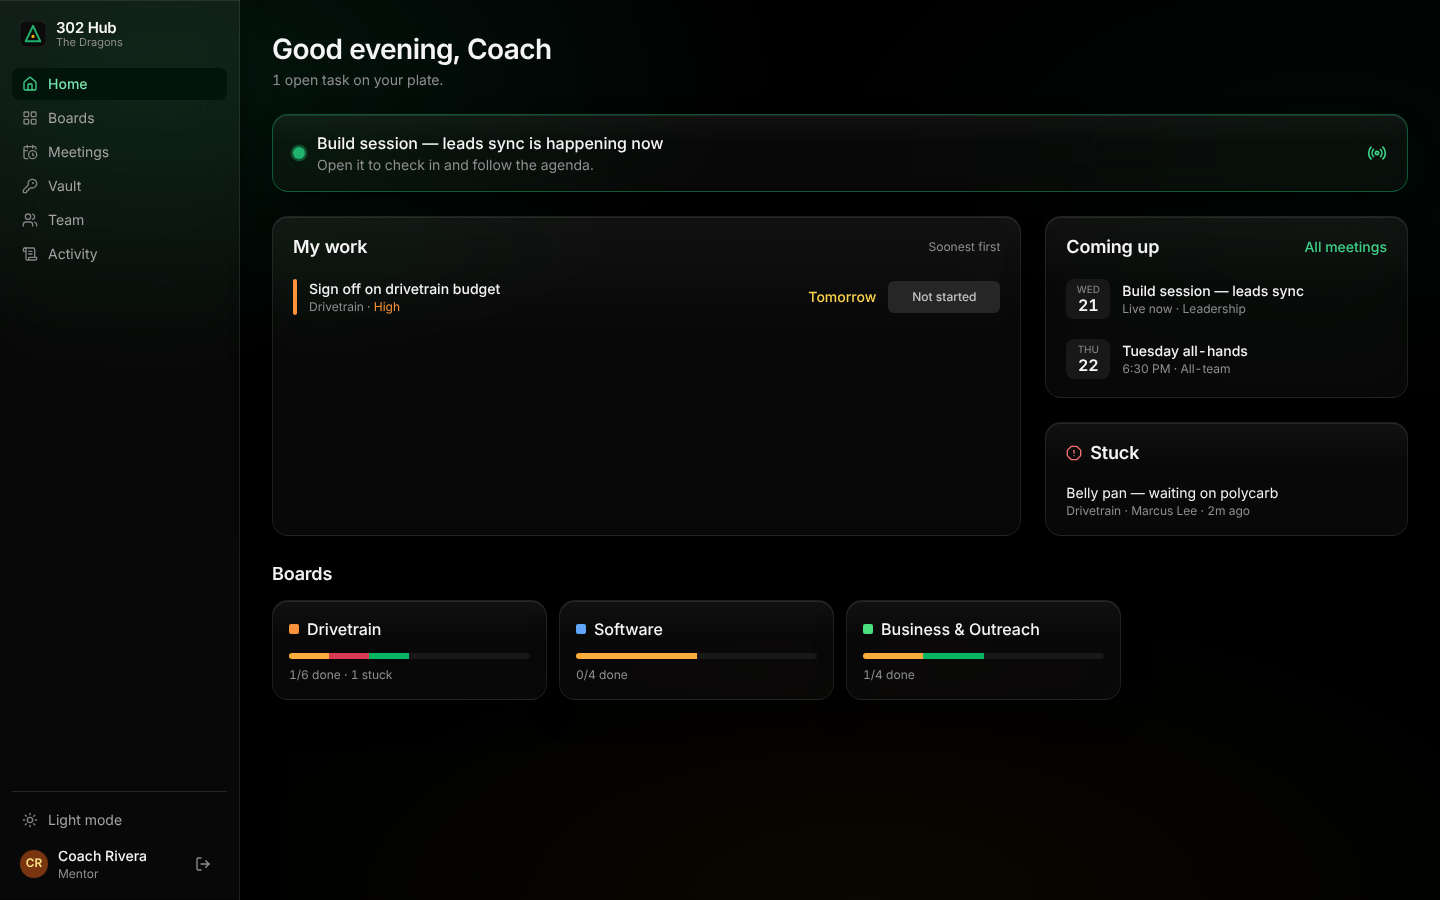
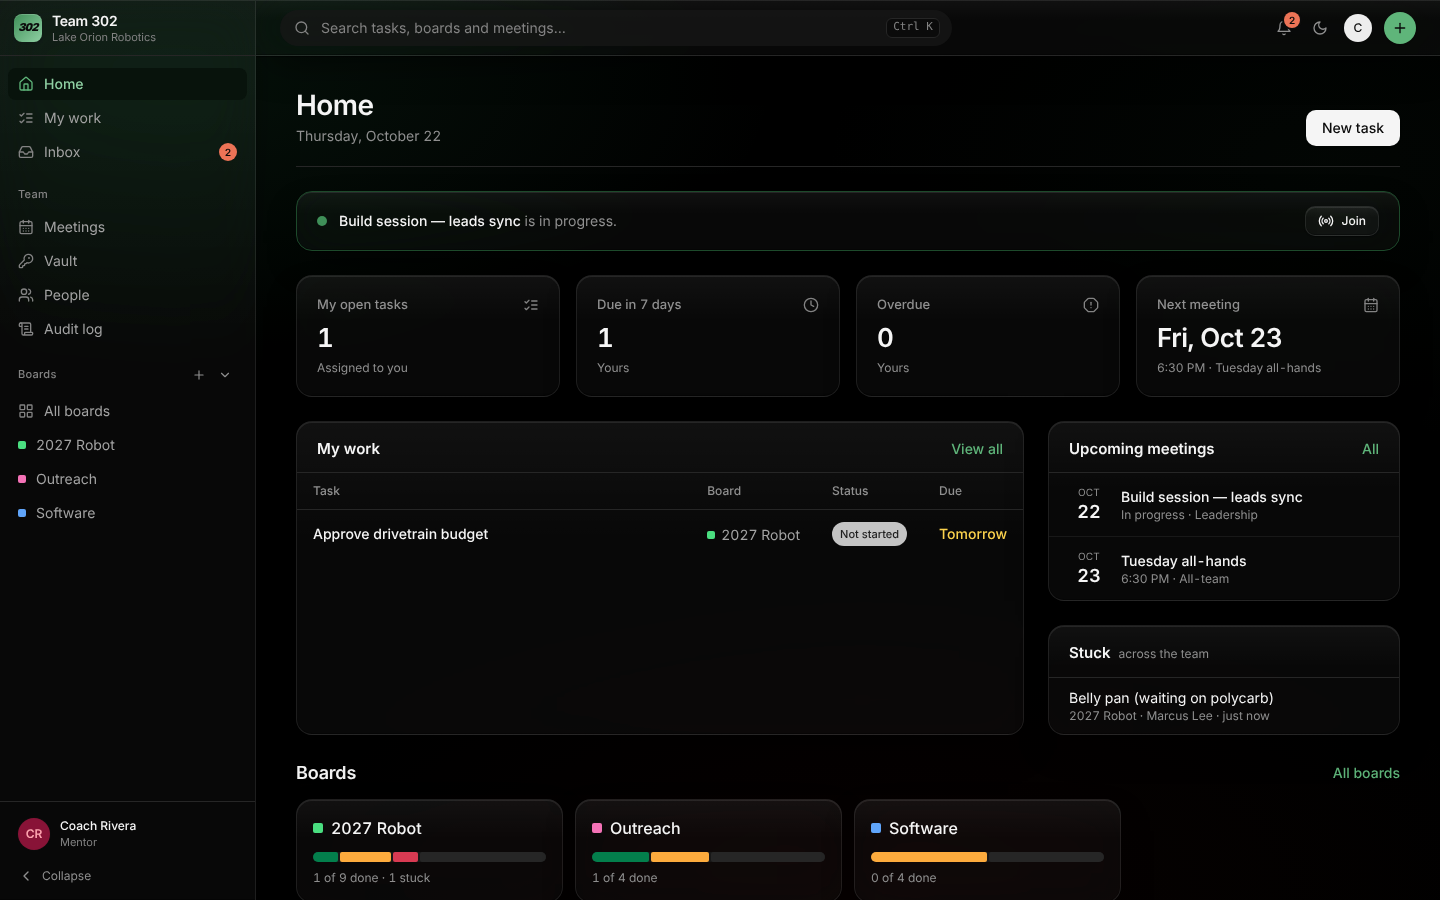
Fix phone board layout and see-through task panel; update README and screenshots
Claude-Session: https://claude.ai/code/session_015WHUanuDyrXfSc4cvqgGRL

diff --git a/frontend/src/components/board/BoardTable.jsx b/frontend/src/components/board/BoardTable.jsx
@@ -9,7 +9,8 @@ import { AddColumnButton, ColumnHeader, SummaryCell } from './columns'
 import { BORDER, COLORS, SWATCH, TEXT } from '../../lib/constants'
 
 const CHECK_W = 44
-const TITLE_W = 340
+// Narrower pinned task column on phones, so the other columns are reachable.
+const titleWidth = () => (typeof window !== 'undefined' && window.innerWidth < 640 ? 190 : 340)
 const ADD_W = 44
 
 function Checkbox({ checked, indeterminate, onChange, label }) {
@@ -51,7 +52,7 @@ function GroupMenu({ group, isFirst, isLast, onRename, onColor, onMove, onDelete
   )
 }
 
-function Row({ item, sub, cols, ctx, depth, subCount, expanded, onToggleExpand, groupColor, dragProps, dropIndicator }) {
+function Row({ item, cols, ctx, titleW, depth, subCount, expanded, onToggleExpand, groupColor, dragProps, dropIndicator }) {
   const { values, users, statuses, selected, toggleSelect, actions, openItem, canEdit } = ctx
   const v = values[item.id] || {}
   const pinnedBg = selected.has(item.id) ? 'bg-accent-50' : depth ? 'bg-brand-gray-50' : 'bg-white'
@@ -63,7 +64,7 @@ function Row({ item, sub, cols, ctx, depth, subCount, expanded, onToggleExpand, 
           <span className="flex-1 flex items-center justify-center"><Checkbox checked={selected.has(item.id)} onChange={() => toggleSelect(item.id)} label={`Select ${item.title}`} /></span>
         </div>
       </td>
-      <td className={`sticky z-10 p-0 border-b border-r border-brand-gray-200 ${pinnedBg}`} style={{ left: CHECK_W, width: TITLE_W }}>
+      <td className={`sticky z-10 p-0 border-b border-r border-brand-gray-200 ${pinnedBg}`} style={{ left: CHECK_W, width: titleW }}>
         <div className="h-9 flex items-center gap-1 pr-2" style={{ paddingLeft: depth ? 28 : 4 }}>
           <span className={`w-4 shrink-0 text-brand-gray-300 ${dragProps.draggable ? 'cursor-grab opacity-0 group-hover/row:opacity-100' : 'opacity-0'}`} aria-hidden="true"><GripVertical className="w-4 h-4" /></span>
           {!depth ? (
@@ -122,6 +123,7 @@ export default function BoardTable({ groups, cols, itemsByGroup, subitemsOf, ctx
   const [drag, setDrag] = useState(null) // { id, groupId, parentId }
   const [drop, setDrop] = useState(null) // { groupId, parentId, beforeId }
   const { selected, setSelected, actions } = ctx
+  const TITLE_W = titleWidth()
   const tableWidth = CHECK_W + TITLE_W + cols.reduce((s, c) => s + c.width, 0) + ADD_W
 
   const toggle = (setFn, id) => setFn((prev) => { const n = new Set(prev); n.has(id) ? n.delete(id) : n.add(id); return n })
@@ -218,10 +220,10 @@ export default function BoardTable({ groups, cols, itemsByGroup, subitemsOf, ctx
                         const subs = subitemsOf(item.id)
                         const isOpen = expanded.has(item.id)
                         return [
-                          <Row key={item.id} item={item} cols={cols} ctx={ctx} depth={0} subCount={subs.length} expanded={isOpen} groupColor={group.color}
+                          <Row key={item.id} titleW={TITLE_W} item={item} cols={cols} ctx={ctx} depth={0} subCount={subs.length} expanded={isOpen} groupColor={group.color}
                             onToggleExpand={() => toggle(setExpanded, item.id)} dragProps={rowDrag(item, group.id, null)} dropIndicator={isDropAt(group.id, null, item.id)} />,
                           ...(isOpen ? [
-                            ...subs.map((s) => <Row key={s.id} item={s} cols={cols} ctx={ctx} depth={1} groupColor={group.color} dragProps={rowDrag(s, group.id, item.id)} dropIndicator={isDropAt(group.id, item.id, s.id)} />),
+                            ...subs.map((s) => <Row key={s.id} titleW={TITLE_W} item={s} cols={cols} ctx={ctx} depth={1} groupColor={group.color} dragProps={rowDrag(s, group.id, item.id)} dropIndicator={isDropAt(group.id, item.id, s.id)} />),
                             <AddRow key={`${item.id}-add`} depth={1} cols={cols} groupColor={group.color} placeholder="Add subitem"
                               onAdd={(title) => actions.addItem({ parent_id: item.id, title })} dropProps={endDrop(group.id, item.id)} dropIndicator={isDropAt(group.id, item.id, null)} />,
                           ] : []),

diff --git a/frontend/src/components/board/ItemPanel.jsx b/frontend/src/components/board/ItemPanel.jsx
@@ -129,7 +129,7 @@ export default function ItemPanel({ itemId, board, data, statuses, actions, onCl
   return createPortal(
     <div className="fixed inset-0 z-50 flex justify-end bg-black/30 animate-fade-in" onMouseDown={(e) => e.target === e.currentTarget && onClose()}>
       {confirmDialog}
-      <aside role="dialog" aria-label={item.title} className="glass-strong border-l w-full max-w-2xl h-full flex flex-col animate-slide-in">
+      <aside role="dialog" aria-label={item.title} className="bg-white border-l border-brand-gray-200 shadow-pop w-full max-w-2xl h-full flex flex-col animate-slide-in">
         <header className="flex items-start gap-3 px-6 pt-5 pb-4 border-b border-brand-gray-200">
           <div className="min-w-0 flex-1">
             <p className="text-xs text-brand-gray-500 truncate">

diff --git a/frontend/src/lib/format.js b/frontend/src/lib/format.js
@@ -1,4 +1,4 @@
-// Shared formatting + status helpers for ProjectPro.
+// Shared formatting + status helpers (ported from ProjectPro, plus 302 Hub helpers at the end).
 //
 // These consolidate the per-page inline `fmt`/`money`/`fmtDate` helpers and the
 // scattered status→color maps into one canonical source. House rules:

diff --git a/README.md b/README.md
@@ -1,38 +1,55 @@
 # 302 Hub
 
-Task boards, meetings and a shared credential vault for **FRC Team 302, The Dragons**.
-Monday.com-style boards, without Monday's learning curve. It uses ProjectPro's stack (Cloudflare Workers + D1 + React/Tailwind)
-and its design system (ink buttons, glass surfaces, dark by default), with a 302 green accent.
+Task boards, meetings and a shared credential vault for **FRC Team 302, Lake Orion Robotics (The Dragons)**.
+Boards work like Monday.com. The app is built on ProjectPro's stack (Cloudflare Workers + D1 + React/Tailwind) and its
+component library (app shell, top bar, modals, toasts, stat cards, charts), in the team's dragon green and flame red.
 
-![Home](docs/screenshots/01-home.png)
+![Board](docs/screenshots/02-board-table.png)
 
-| Boards (table) | Boards (kanban) |
+| Home | Task panel |
 |---|---|
-| ![Board table](docs/screenshots/03-board-table.png) | ![Kanban](docs/screenshots/04-board-kanban.png) |
-| **Meeting: run mode** | **Vault** |
-| ![Run](docs/screenshots/07-meeting-run.png) | ![Vault](docs/screenshots/10-vault-revealed.png) |
+| ![Home](docs/screenshots/01-home.png) | ![Task](docs/screenshots/09-item-panel.png) |
+| **Kanban** | **Timeline** |
+| ![Kanban](docs/screenshots/05-kanban.png) | ![Timeline](docs/screenshots/07-timeline.png) |
+| **Meeting, live** | **Light theme** |
+| ![Meeting](docs/screenshots/17-meeting-run.png) | ![Light](docs/screenshots/22-board-light.png) |
 
 ## What it does
 
-**Boards.** One per subteam or project. Each board has groups (This week / Next up / Backlog) and tasks. Every task has an
-owner, a status (Not started, Working on it, Stuck, Needs review, Done), a priority and a due date, all editable inline.
-There's a table view and a drag-and-drop kanban, a "Mine" filter, a person filter and search. Each task opens a side panel
-with a description and an updates thread.
+**Boards.** One per subteam or project, started from a template: Robot build (Design → Fabrication → Assembly → Testing,
+with Subsystem, Timeline, Est. hours, Parts ordered and CAD columns), Competition prep, Outreach, or blank.
+- **Columns you define:** status labels, people (several per task), date, timeline, text, numbers, checkbox, tags, link.
+  Every board also has Owner, Status, Priority and Due date. The statuses can be renamed per board, and Owner, Priority
+  and Due date can be hidden.
+- **Groups** with a summary row under each: status mix, date range, number totals, checkbox counts, who's involved.
+- **Subitems** under any task, with the same columns.
+- **Drag and drop** to reorder tasks or move them between groups. Bulk-select to change status or owner, move,
+  duplicate or delete.
+- **Search, person filter, filters** (status, priority, overdue, due this week, no date) and **sort** by any column.
+- **Views:** Main table, Kanban (lanes by status or any status column), Calendar (drag to reschedule), Timeline/Gantt,
+  and Chart (status mix, open tasks per person and per group).
+- **Task panel:** every field, an updates thread with **@mentions**, subitems, and a full **history** of who changed what.
+- **Automations:** "when status changes to Done, move it to Testing", "when Stuck, notify a mentor", "when a task is
+  created, assign it to …". Loops are capped.
+- **Favorites** pin boards to the top of the sidebar.
 
-**Meetings.** *Plan:* an agenda where every topic has a timebox and an owner, with a warning when the agenda runs longer
-than the meeting. You can copy last week's agenda. *Run:* one topic at a time with a big countdown that turns red on
-overtime, notes per topic, one-tap attendance, a decisions box, and action items. An action item is created as a real
-task on a board, with an owner and a due date. Members can check themselves in from their phone. *Recap:* a Markdown
-summary (attendance, agenda notes, decisions, action items) to paste into Slack, Discord or email, or to print.
+**Inbox.** Notifications when you're assigned, added to a people column, @mentioned, when someone updates or changes the
+status of a task you own, automation alerts, and due-date reminders (hourly job, once per task per day). The unread count
+shows in the sidebar and on the top-bar bell.
 
-**Vault.** Shared team logins: Onshape, the FIRST dashboard, social accounts, the shop Wi-Fi. Each entry is visible to
-*everyone*, *leads and mentors*, or *mentors only*. Passwords are shown one at a time, auto-hide after 20 seconds, and are
-cleared from the clipboard after 30 seconds. **Every reveal is logged with name, time and IP.** The vault can also hold a
-**2FA authenticator key**, so the team account doesn't live on one mentor's phone. The server returns the 6-digit code,
-never the key.
+**My work.** Every open task and subitem you own across all boards, grouped into Overdue, Today, Next 7 days and later.
 
-**Home.** Your open tasks (soonest first), the meeting happening now, upcoming meetings, stuck tasks across the team, and
-progress for each board.
+**Search (⌘K / Ctrl K).** Tasks, boards and meetings you can see.
+
+**Meetings.** *Agenda:* topics with an owner and a time limit; it warns when the agenda runs longer than the meeting, and you
+can copy last week's. *Run:* one topic at a time with a countdown that turns red on overtime, notes per topic, one-click
+attendance, decisions, and action items that are created as real tasks on a board. Members check themselves in.
+*Recap:* a Markdown summary to paste into Slack, Discord or email, or print.
+
+**Vault.** Shared team logins (Onshape, the FIRST dashboard, social accounts, shop Wi-Fi). Each entry is visible to
+everyone, leads and mentors, or mentors only. Passwords are revealed one at a time, hide after 20 seconds, and are cleared
+from the clipboard after 30. **Every reveal is logged with name, time and IP.** An entry can hold a 2FA key: the server
+hands out the 6-digit code, never the key.
 
 ## Roles
 
@@ -40,7 +57,8 @@ progress for each board.
 |---|---|---|---|
 | See all boards; create, edit and finish tasks | ✓ | ✓ | ✓ |
 | Delete a task | own only | ✓ | ✓ |
-| Create, rename and archive boards and groups | | ✓ | ✓ |
+| Add subitems, post updates, @mention | ✓ | ✓ | ✓ |
+| Create boards; manage groups, columns, labels, automations; archive | | ✓ | ✓ |
 | Delete a board | | | ✓ |
 | See leadership meetings | | ✓ | ✓ |
 | See mentor meetings | | | ✓ |
@@ -91,12 +109,13 @@ Members can't see other people's emails. If your district has a data-privacy agr
 ### Other limits you should know about
 - **Self check-in trusts the device.** It proves someone had the app open while the meeting was live, not that they were in
   the room. Whoever runs the meeting can correct any entry.
-- **There are no notifications yet.** No email or push when you're assigned a task or a meeting starts.
-- **No real-time sync.** Two people editing the same board see each other's changes on refresh. Live meetings poll every
-  10 seconds for people following along.
-- **Brand colours and logo are placeholders.** The accent is a green and gold I picked, and the mark is a simple placeholder.
-  Swap in the team's official colours in `frontend/tailwind.config.js` (`ACCENT`, `GOLD`) and the official logo in
-  `frontend/src/components/BrandMark.jsx` and `frontend/public/favicon.svg`.
+- **Notifications are in-app only.** There is no email or push yet; people see the Inbox count when they open the app.
+- **Near-real-time, not real-time.** Boards refresh every 20 seconds while open, and a live meeting every 10 seconds for
+  people following along. Two people editing the same cell at once: the last save wins.
+- **One owner per task.** The built-in Owner is single on purpose (one person accountable); add a People column for
+  helpers. Subitems are one level deep.
+- **Logo.** Put the team logo at `frontend/public/brand/logo.svg` (or `logo.png`, transparent background). The sign-in page
+  shows it; small spots use the "302" mark. The brand colours are in `frontend/tailwind.config.js` (`ACCENT`, `FLAME`).
 
 ## Local development
 
@@ -114,6 +133,10 @@ npm test                            # integration tests, real SQLite, no mocks o
 `JWT_SECRET` or empty `VAULT_KEY` copied from the example gets filled in), and creates `frontend/dist`, which
 `wrangler dev` needs before its first build. The first mentor is `mentor@example.org`; to use another address, set
 `BOOTSTRAP_ADMIN_EMAIL` in `.dev.vars` before seeding.
+
+**Using it from other devices (phones, the shop laptop):** `npm run dev:lan` serves the app on your network and prints
+its address. Dev sign-in has no passwords, so this lets **anyone on that network sign in as anyone, mentors included**.
+Use it with demo data only. Plain `npm run dev` refuses other devices. For real use, deploy (below).
 
 `npm audit` in `frontend/` reports Tailwind 3's build tooling (braces, micromatch, chokidar). It runs only at
 build time on your machine and none of it ships to the browser. The fix is a Tailwind 4 migration. Don't run
@@ -150,17 +173,20 @@ migrations. This repo keeps what carried over well:
 - the AES-GCM field encryption, extended with key ids for rotation
 - the Tailwind design tokens and component styles
 
-Everything else is purpose-built. The result is about 4k lines that a student programmer can read end to end.
+Everything else is purpose-built. The result is a codebase a student programmer can read end to end.
 
 ## Layout
 
 ```
-migrations/0001_init.sql      schema (users, subteams, boards, groups, items, updates, meetings, agenda, attendance, vault, activity)
-worker/src/index.js           router, error handling, security headers
-worker/src/lib/               auth (Clerk + dev), vault crypto, TOTP, validation, audit + rate limit
-worker/src/routes/            team, boards, meetings, vault, home, auth
-worker/test/                  integration tests (node:test + node:sqlite D1 shim)
-frontend/src/pages/           Home, Boards, Board, Meetings, Meeting, Vault, Team, Activity
-frontend/src/components/      Shell, ui primitives, ItemDrawer, BrandMark
-scripts/seed-demo.mjs         demo data for local dev only
+migrations/                     0001 core schema; 0002 columns, values, subitems, history, notifications, automations
+worker/src/index.js             router, error handling, security headers, hourly due-date reminders
+worker/src/lib/items.js         every task change goes through here: history, notifications, automations
+worker/src/lib/                 auth (Clerk + dev), column validation, vault crypto, TOTP, audit + rate limit
+worker/src/routes/              boards, items, meetings, vault, team, home, auth
+worker/test/                    integration tests (node:test + a node:sqlite D1 shim)
+frontend/src/components/board/  the board: table, cells, columns, views, task panel, controls, useBoard
+frontend/src/components/ui/     ProjectPro's component library (modals, stat cards, charts, avatars, …)
+frontend/src/components/layout/ app shell, sidebar, top bar
+frontend/src/pages/             Home, My work, Inbox, Boards, Board, Meetings, Meeting, Vault, People, Audit log
+scripts/seed-demo.mjs           demo data for local dev only
 ```
